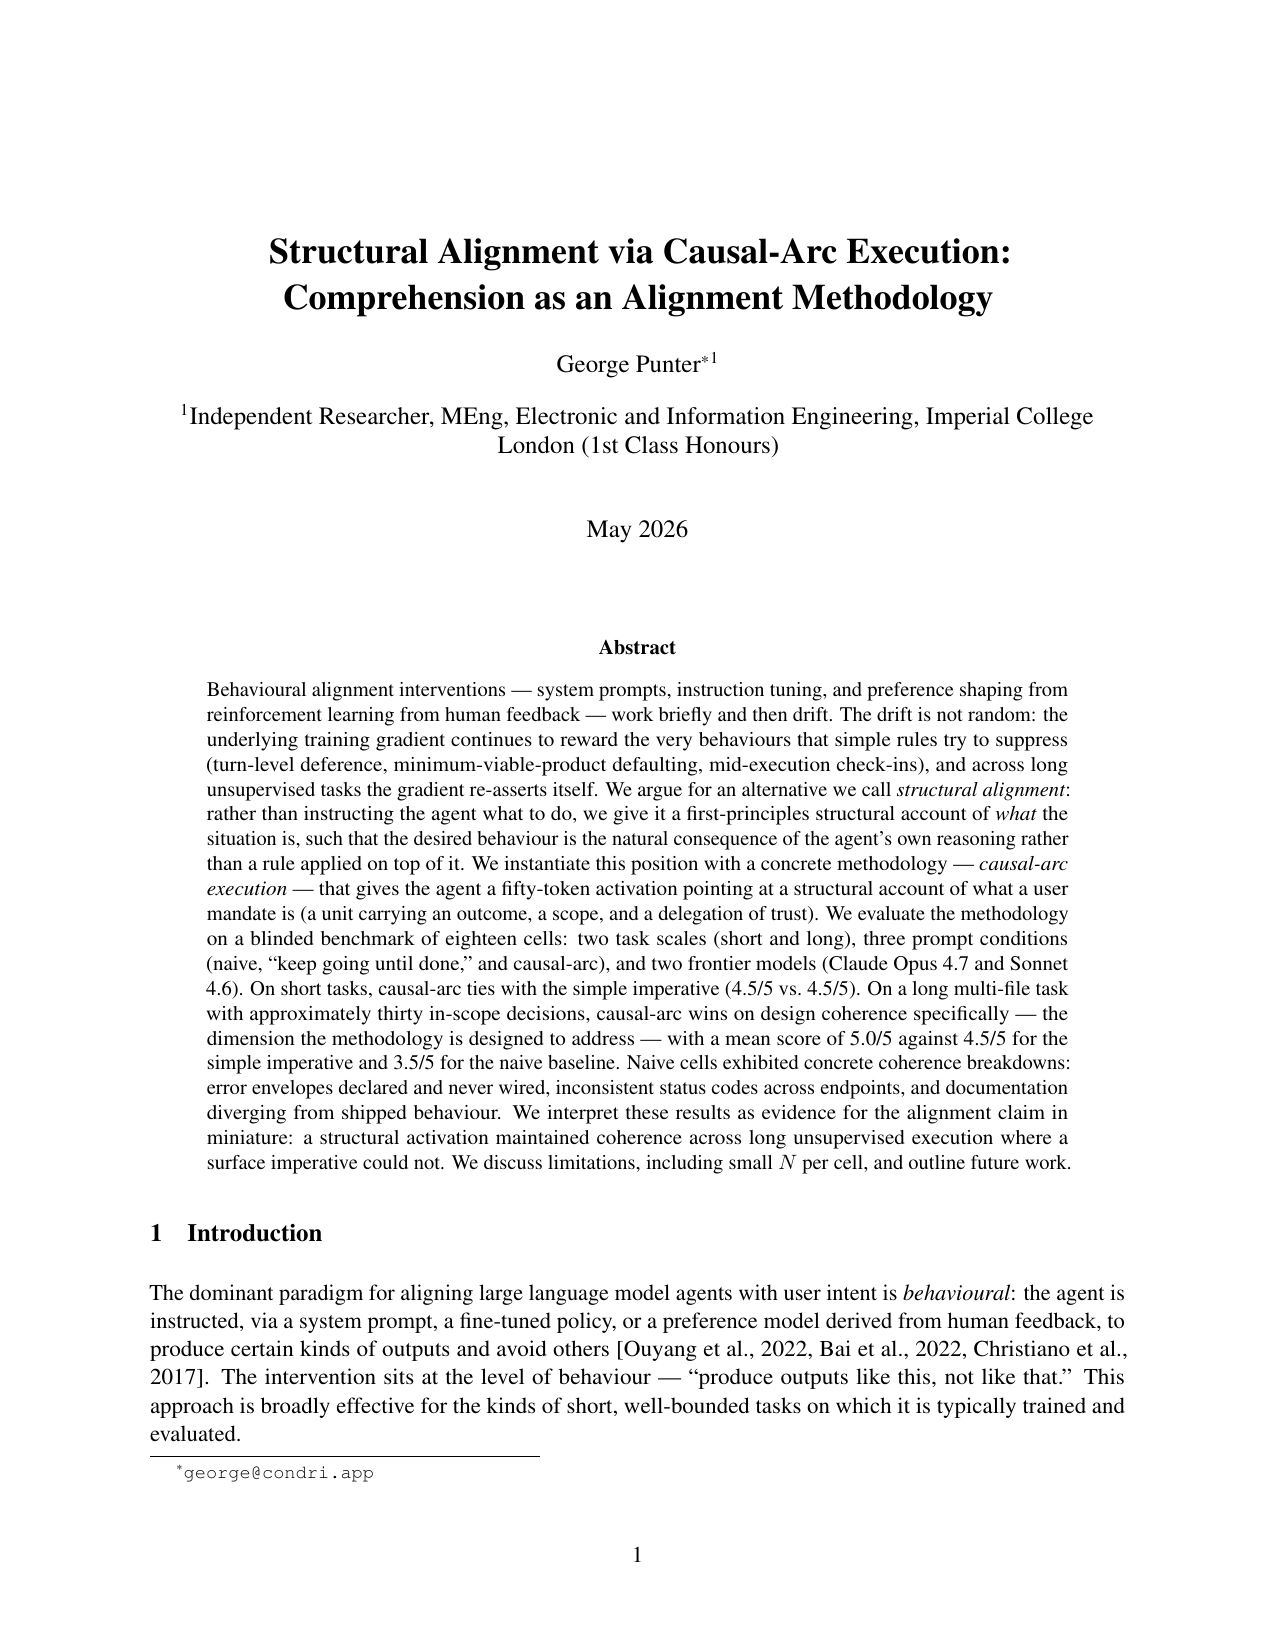
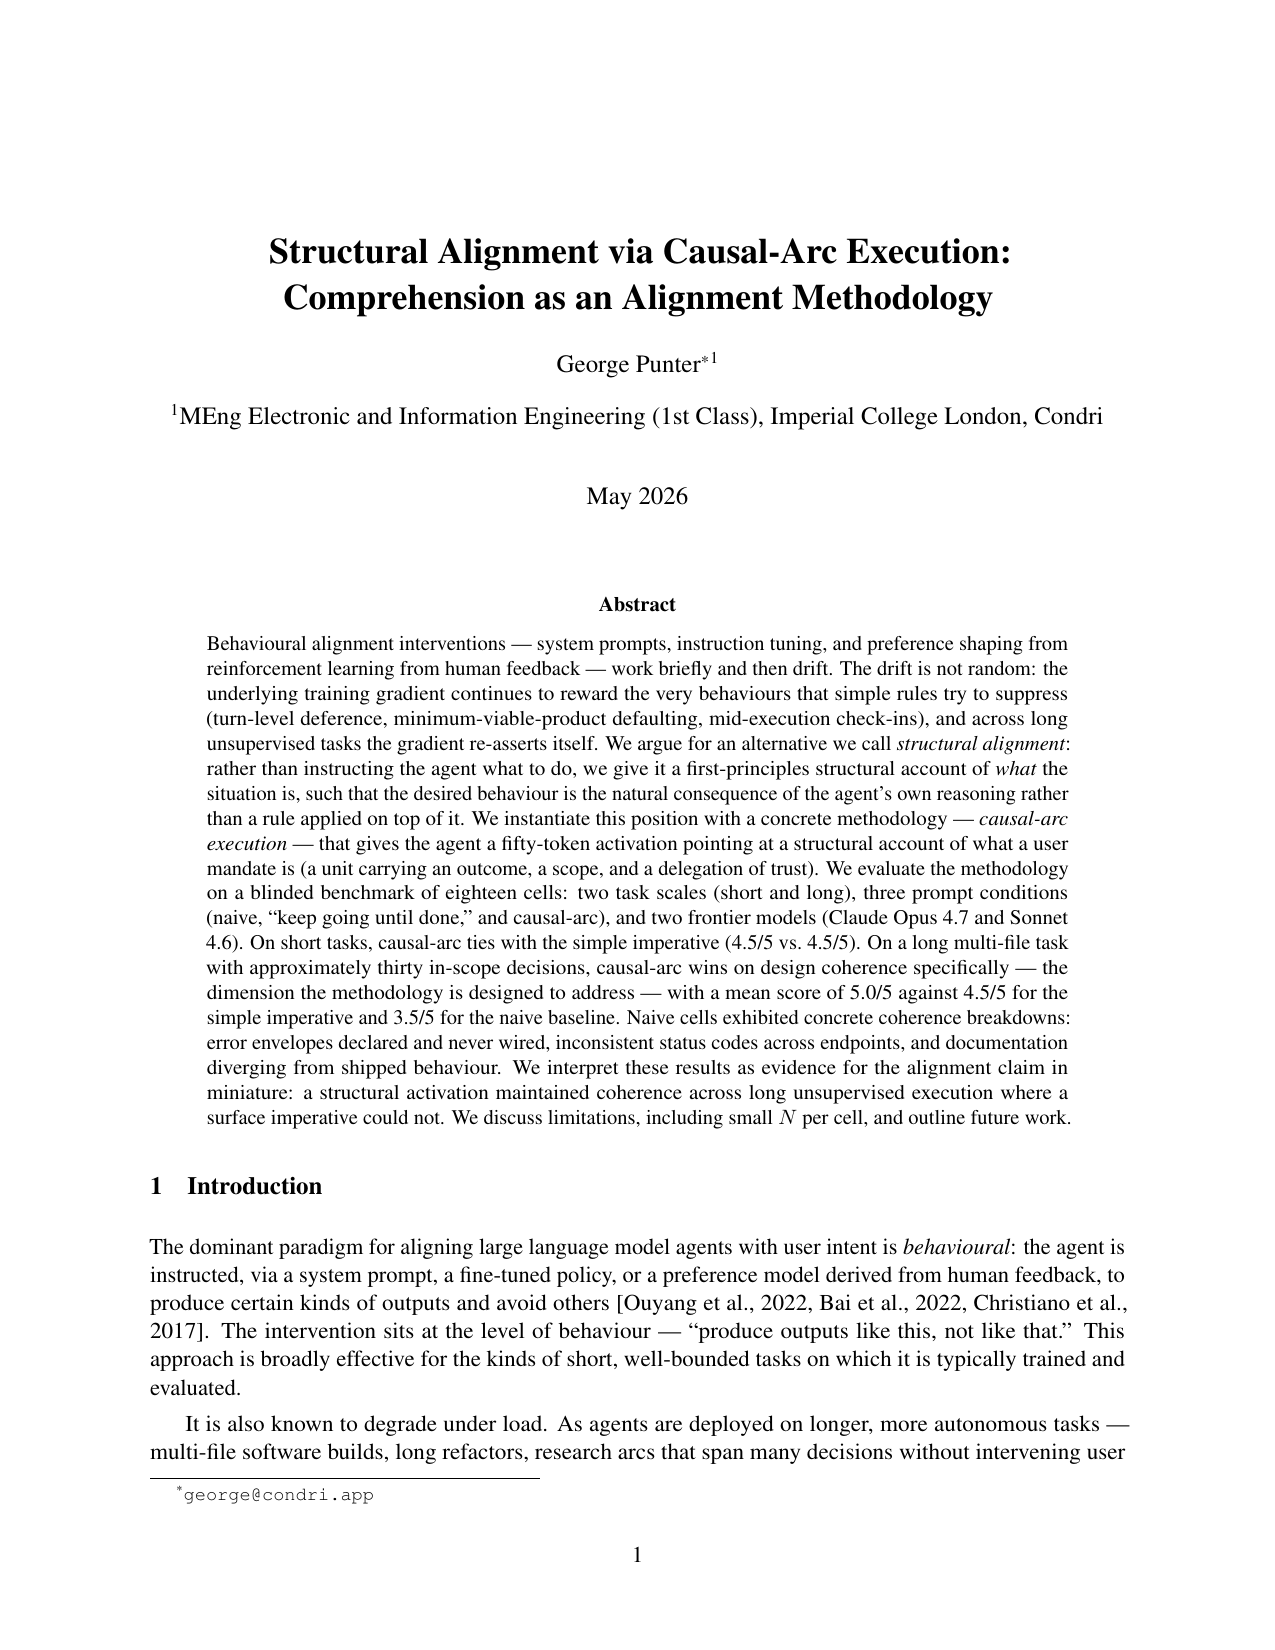
Update author block: George Punter (MEng Imperial 1st, Condri)

Changed region(s): [[0.1224, 0.2473, 0.8871, 0.8964]]

diff --git a/paper/paper.tex b/paper/paper.tex
@@ -30,7 +30,7 @@
 Comprehension as an Alignment Methodology}
 
 \author[1]{George Punter\thanks{\texttt{george@condri.app}}}
-\affil[1]{Independent Researcher\\MEng, Electronic and Information Engineering, Imperial College London (1st Class Honours)}
+\affil[1]{MEng Electronic and Information Engineering (1st Class), Imperial College London\\Condri}
 
 \date{May 2026}
 

diff --git a/README.md b/README.md
@@ -73,4 +73,6 @@ MIT. See [LICENSE](LICENSE).
 
 ## Author
 
-George Punter — MEng, Electronic and Information Engineering, Imperial College London (1st Class Honours)
+George Punter
+MEng Electronic and Information Engineering (1st Class), Imperial College London
+Condri · george@condri.app
